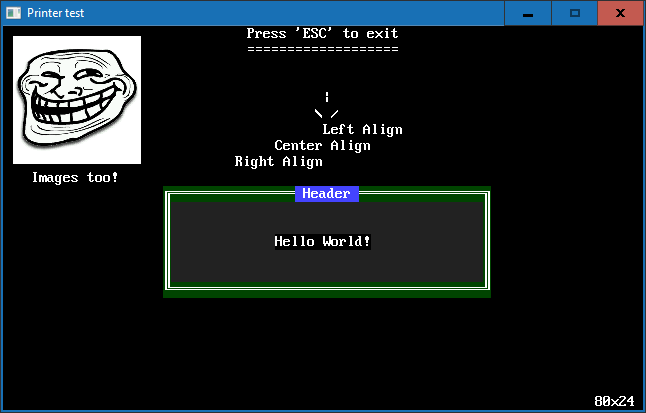
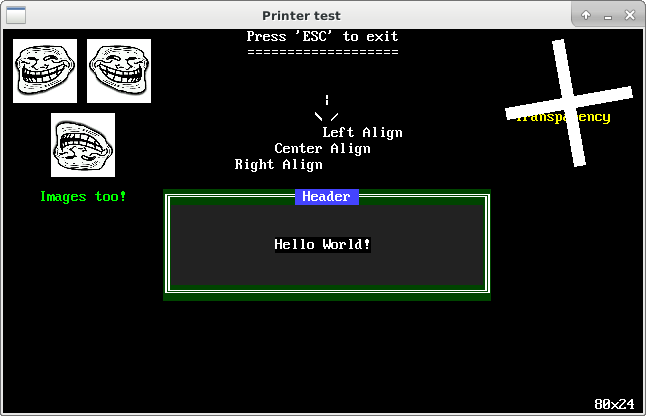
[printer]
- images loading support

diff --git a/printer.h b/printer.h
@@ -283,6 +283,16 @@ namespace TG
       static const int kAlignCenter = 1;
       static const int kAlignRight  = 2;
 
+      ~Printer()
+      {
+        #ifdef USE_SDL
+        for (auto& i : _images)
+        {
+          SDL_DestroyTexture(i);
+        }
+        #endif
+      }
+
 #ifdef USE_SDL
       /// @param[in] renderer Reference to SDL_Renderer.
       /// @param[in] fontImageFilename Font image filename.
@@ -655,6 +665,157 @@ namespace TG
         }
 
         SDL_RenderCopy(_rendererRef, tex, &src, &dst);
+      }
+
+      // =======================================================================
+
+      int LoadImage(const std::string& fname)
+      {
+        int ret = -1;
+
+        SDL_Surface* surf = SDL_LoadBMP(fname.data());
+        if (surf == nullptr)
+        {
+          printf("Couldn't load image %s: %s\n", fname.data(), SDL_GetError());
+          return ret;
+        }
+
+        SDL_Texture* tex = SDL_CreateTextureFromSurface(_rendererRef, surf);
+        if (tex == nullptr)
+        {
+          printf("Couldn't create texture from surface: %s\n", SDL_GetError());
+          return ret;
+        }
+
+        _images.push_back(tex);
+
+        ret = _images.size() - 1;
+
+        SDL_FreeSurface(surf);
+
+        return ret;
+      }
+
+      // =======================================================================
+
+      int LoadImage(const std::string& fname, uint32_t colorKey)
+      {
+        int ret = -1;
+
+        SDL_Surface* surf = SDL_LoadBMP(fname.data());
+        if (surf == nullptr)
+        {
+          printf("Couldn't load image %s: %s\n", fname.data(), SDL_GetError());
+          return ret;
+        }
+
+        uint32_t r = ((colorKey & _maskR) >> 16);
+        uint32_t g = ((colorKey & _maskG) >> 8);
+        uint32_t b = (colorKey & _maskB);
+
+        int ok = SDL_SetColorKey(surf, SDL_TRUE, SDL_MapRGB(surf->format, r, g, b));
+        if (ok == -1)
+        {
+          printf("Couldn't set color key: %s\n", SDL_GetError());
+          return ret;
+        }
+
+        SDL_Texture* tex = SDL_CreateTextureFromSurface(_rendererRef, surf);
+        if (tex == nullptr)
+        {
+          printf("Couldn't create texture from surface: %s\n", SDL_GetError());
+          return ret;
+        }
+
+        _images.push_back(tex);
+
+        ret = _images.size() - 1;
+
+        SDL_FreeSurface(surf);
+
+        return ret;
+      }
+
+      // =======================================================================
+
+      void DrawImage(int imageIndex,
+                     const SDL_Rect& r,
+                     int angle,
+                     SDL_RendererFlip flip = SDL_RendererFlip::SDL_FLIP_NONE)
+      {
+        if (imageIndex < 0 or imageIndex > (int)_images.size() - 1)
+        {
+          return;
+        }
+
+        SDL_Texture* t = _images[imageIndex];
+
+        int tw, th;
+        int ok = SDL_QueryTexture(t, nullptr, nullptr, &tw, &th);
+        if (ok == -1)
+        {
+          printf("Couldn't query texture: %s\n", SDL_GetError());
+          return;
+        }
+
+        SDL_Rect src;
+        src.x = 0;
+        src.y = 0;
+        src.w = tw;
+        src.h = th;
+
+        SDL_Rect dst;
+        dst.x = r.x;
+        dst.y = r.y;
+        dst.w = r.w;
+        dst.h = r.h;
+
+        if (SDL_GetRenderTarget(_rendererRef) == nullptr)
+        {
+          SDL_SetRenderTarget(_rendererRef, _frameBuffer);
+        }
+
+        SDL_RenderCopyEx(_rendererRef, t, &src, &dst, angle, nullptr, flip);
+      }
+
+      // =======================================================================
+
+      void DrawImage(int imageIndex,
+                     const SDL_Rect& r)
+      {
+        if (imageIndex < 0 or imageIndex > (int)_images.size() - 1)
+        {
+          return;
+        }
+
+        SDL_Texture* t = _images[imageIndex];
+
+        int tw, th;
+        int ok = SDL_QueryTexture(t, nullptr, nullptr, &tw, &th);
+        if (ok == -1)
+        {
+          printf("Couldn't query texture: %s\n", SDL_GetError());
+          return;
+        }
+
+        SDL_Rect src;
+        src.x = 0;
+        src.y = 0;
+        src.w = tw;
+        src.h = th;
+
+        SDL_Rect dst;
+        dst.x = r.x;
+        dst.y = r.y;
+        dst.w = r.w;
+        dst.h = r.h;
+
+        if (SDL_GetRenderTarget(_rendererRef) == nullptr)
+        {
+          SDL_SetRenderTarget(_rendererRef, _frameBuffer);
+        }
+
+        SDL_RenderCopy(_rendererRef, t, &src, &dst);
       }
 
       // =======================================================================
@@ -1060,6 +1221,8 @@ namespace TG
       SDL_Texture* _tileset = nullptr;
       SDL_Texture* _frameBuffer = nullptr;
       SDL_Renderer* _rendererRef = nullptr;
+
+      std::vector<SDL_Texture*> _images;
 
       std::string _tilesetFilename;
 

diff --git a/example.cpp b/example.cpp
@@ -27,7 +27,10 @@ const int kWindowHeight = 24 * kGlyphHeight * kGlobalScale;
 const std::string kExitString = "Press 'ESC' to exit";
 const std::string khBar       = "===================";
 const std::string kTrollFace  = "SDL2/test/shapes/trollface_24.bmp";
-SDL_Texture* _trollface = nullptr;
+const std::string kPlus       = "plus.bmp";
+int _trollface = -1;
+int _plus = -1;
+int angle = 0;
 #else
 const std::string kExitString = "Press 'q' to exit";
 const std::string khBar       = "=================";
@@ -84,8 +87,14 @@ void Display()
   //
   // Can do images too, but SDL only.
   //
-  _printer.DrawImage(10, 10, 128, 128, _trollface);
-  _printer.PrintFB(9, 9, "Images too!", TG::Printer::kAlignCenter, 0xFFFFFF);
+  _printer.PrintFB(70, 5, "Transparency", TG::Printer::kAlignCenter, 0xFFFF00);
+  _printer.DrawImage(_plus, { kWindowWidth - 128 - 10, 10, 128, 128 }, angle++);
+
+  _printer.DrawImage(_trollface, { 10, 10, 64, 64 });
+  _printer.DrawImage(_trollface, { 84, 10, 64, 64 }, 0, SDL_RendererFlip::SDL_FLIP_HORIZONTAL);
+  _printer.DrawImage(_trollface, { 48, 84, 64, 64 }, 0, SDL_RendererFlip::SDL_FLIP_VERTICAL);
+
+  _printer.PrintFB(10, 10, "Images too!", TG::Printer::kAlignCenter, 0x00FF00);
   #endif
 
   //
@@ -98,14 +107,6 @@ void Display()
 #ifdef USE_SDL
 SDL_Renderer* _renderer = nullptr;
 SDL_Window* _window     = nullptr;
-
-SDL_Texture* LoadImage(const std::string& fname)
-{
-  SDL_Surface* surf = SDL_LoadBMP(fname.data());
-  SDL_Texture* tex = SDL_CreateTextureFromSurface(_renderer, surf);
-  SDL_FreeSurface(surf);
-  return tex;
-}
 
 bool SDL2()
 {
@@ -180,7 +181,8 @@ bool SDL2()
     return 1;
   }
 
-  _trollface = LoadImage(kTrollFace);
+  _trollface = _printer.LoadImage(kTrollFace);
+  _plus      = _printer.LoadImage(kPlus, 0xFF00FF);
 
   bool running = true;
   while (running)
